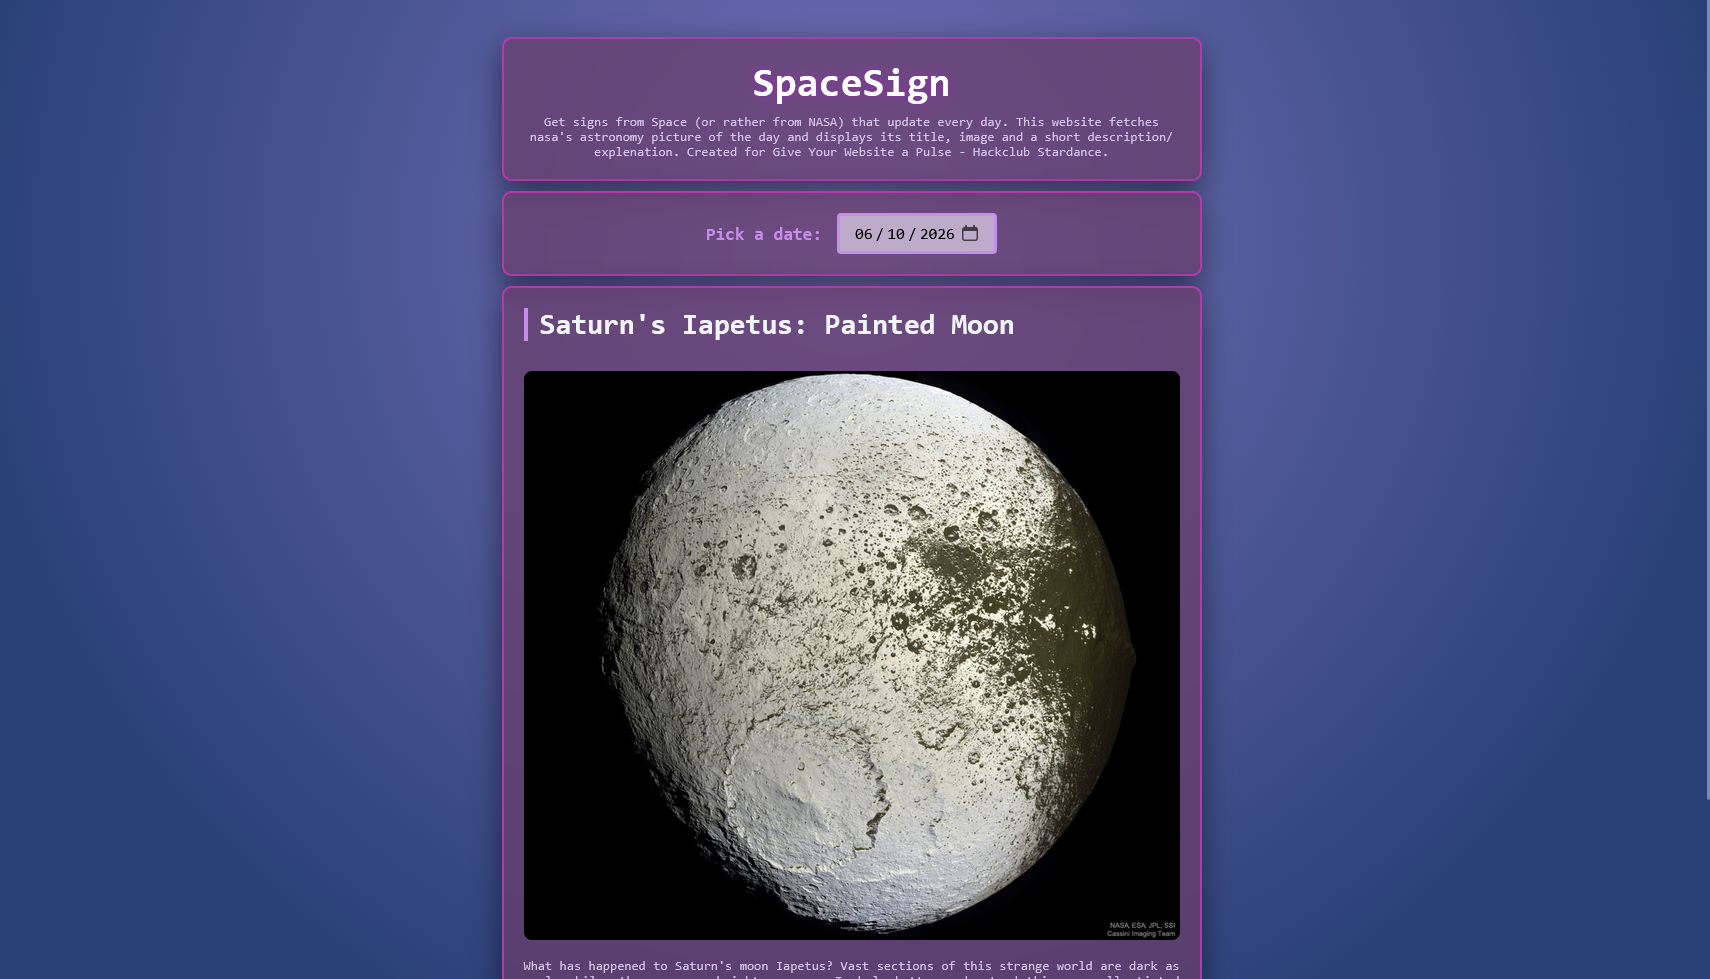
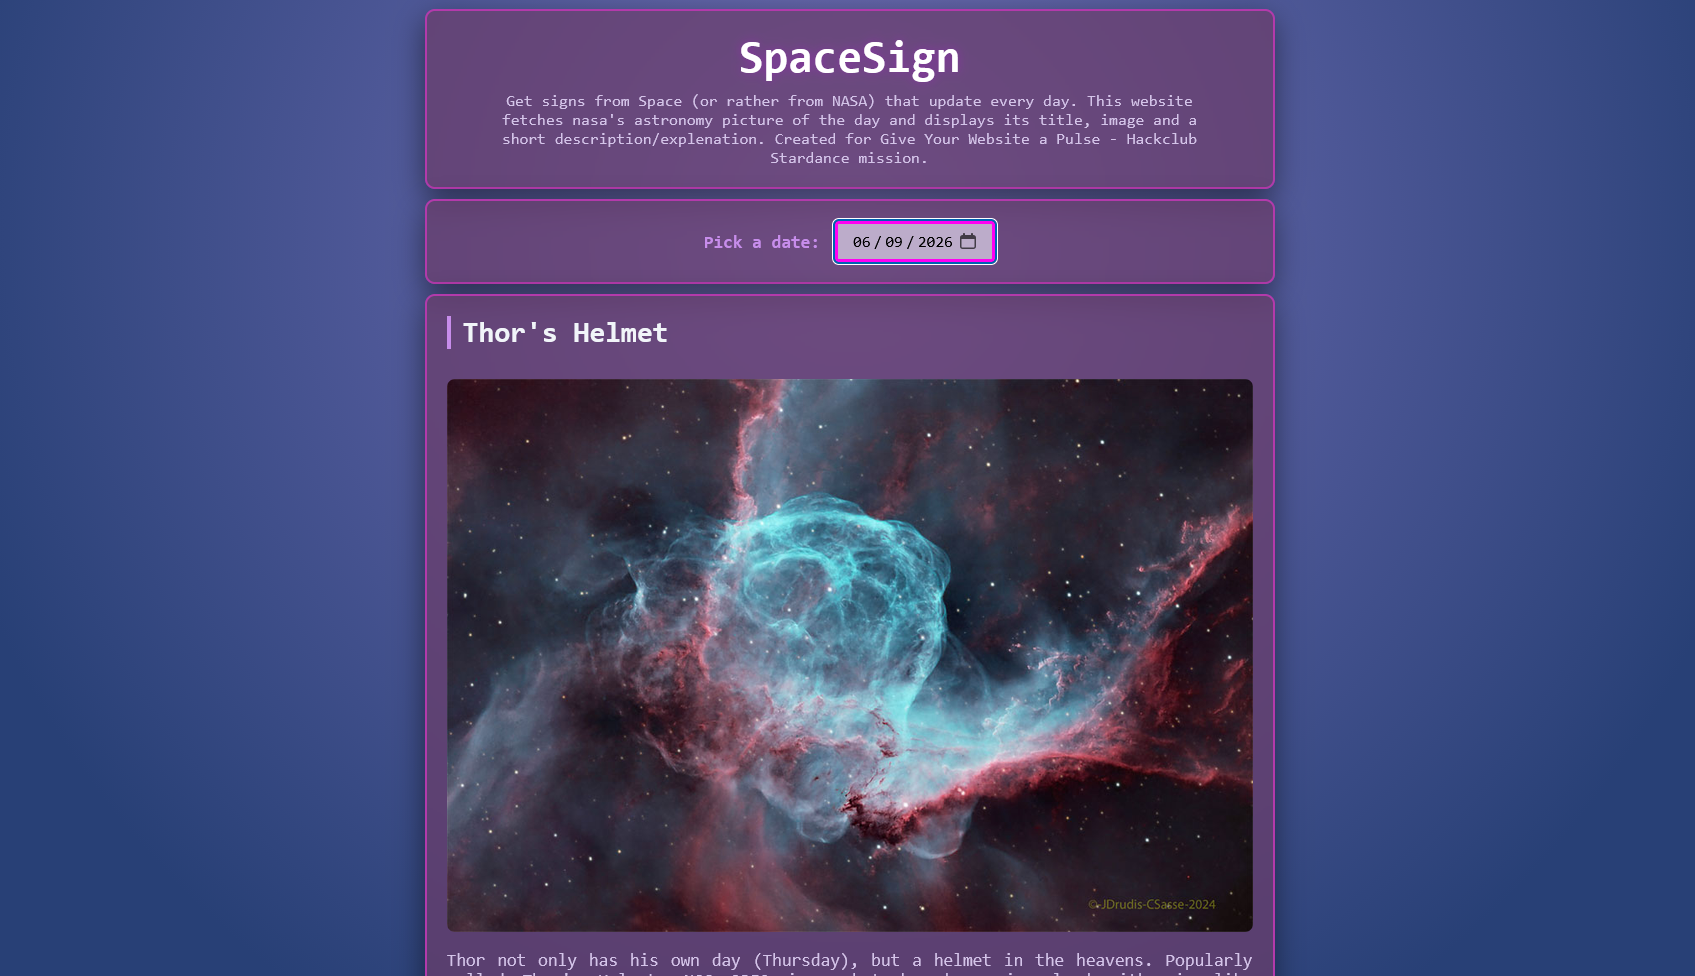
readmechange and bigger text

diff --git a/src/style.css b/src/style.css
@@ -13,7 +13,7 @@ body {
 }
 
 .container {
-    max-width: 700px;
+    max-width: 850px;
     margin: 0 auto;
 }
 
@@ -37,7 +37,7 @@ body {
 }
 
 .header h1 {
-    font-size: 2.5rem;
+    font-size: 2.8rem;
     color: white;
     text-shadow: 0 0 10px rgba(217, 0, 255, 0.3);
     margin-bottom: 8px;
@@ -45,6 +45,8 @@ body {
 
 .explenation {
     color: #d4c4e9;
+    padding-left: 30px; padding-right: 30px;
+    font-size: 1rem;
 }
 
 
@@ -94,4 +96,5 @@ body {
 .api p {
     color: #d4c4e9;
     text-align: justify;
+    font-size: 1.1rem;
 }